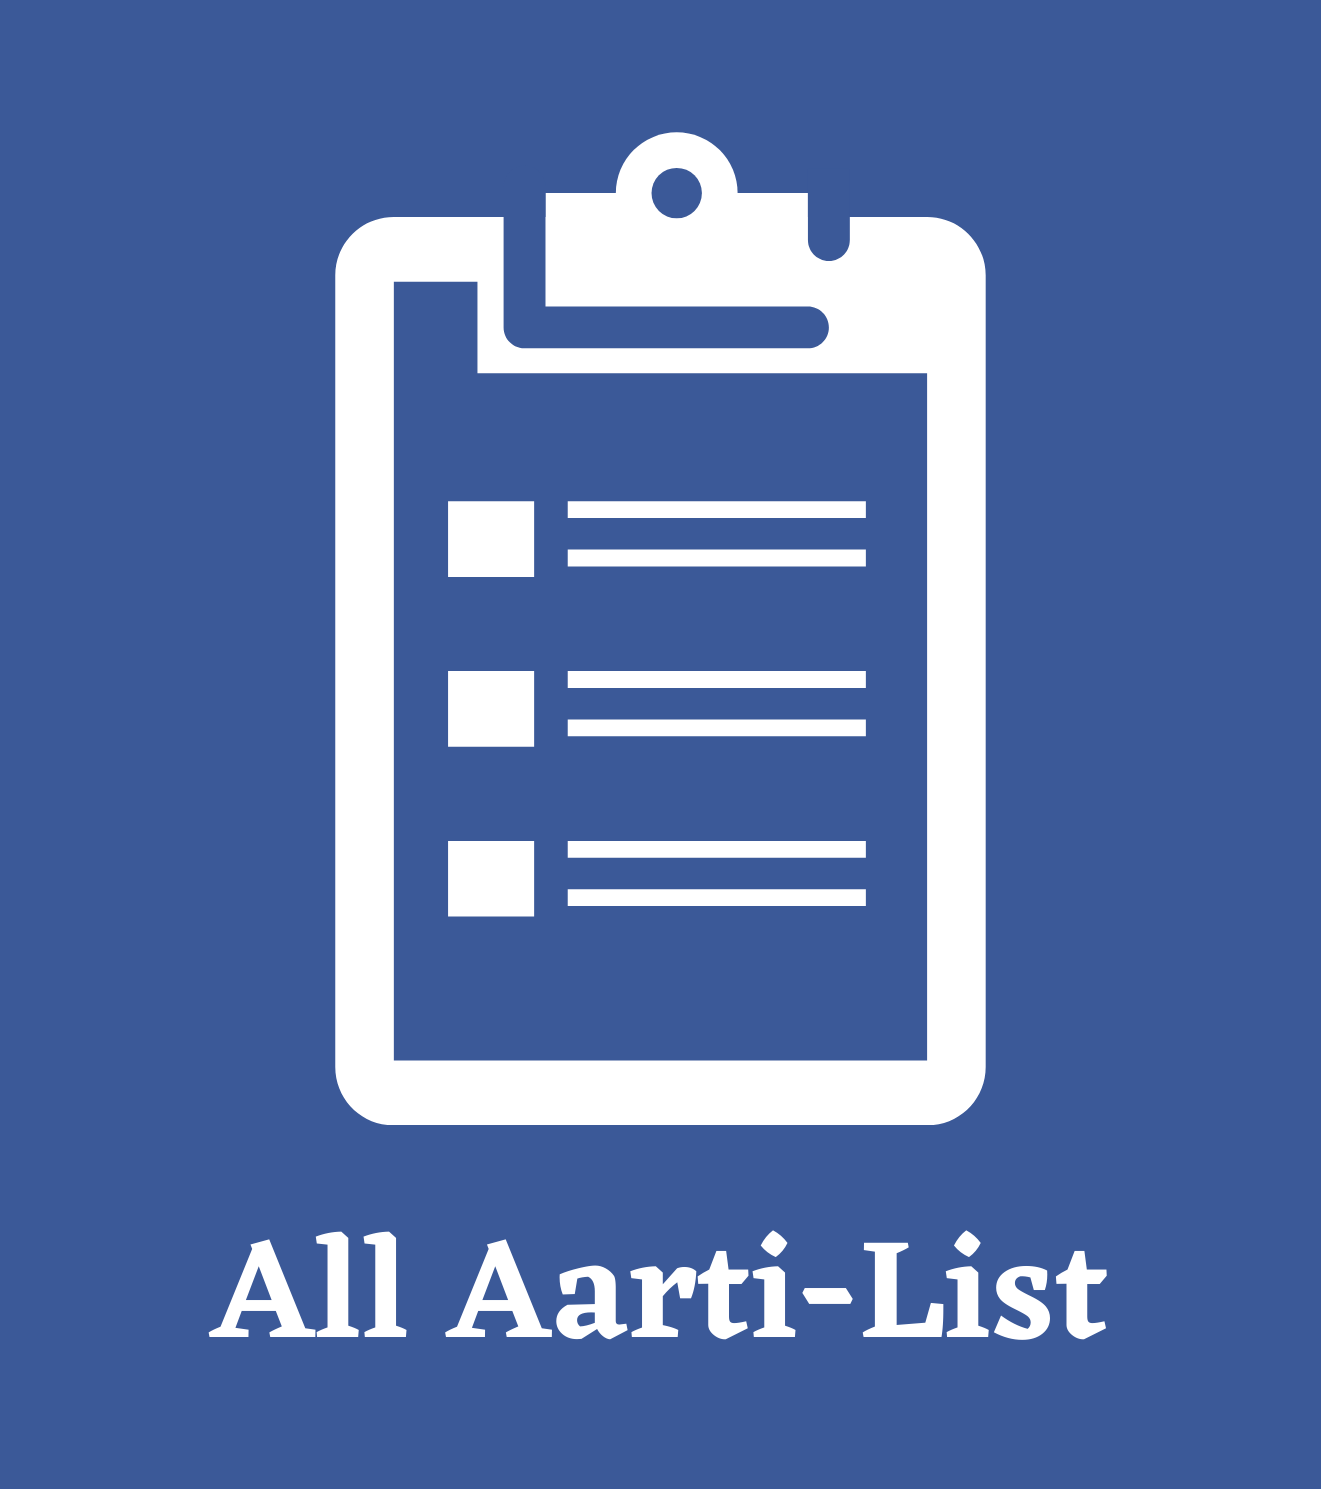
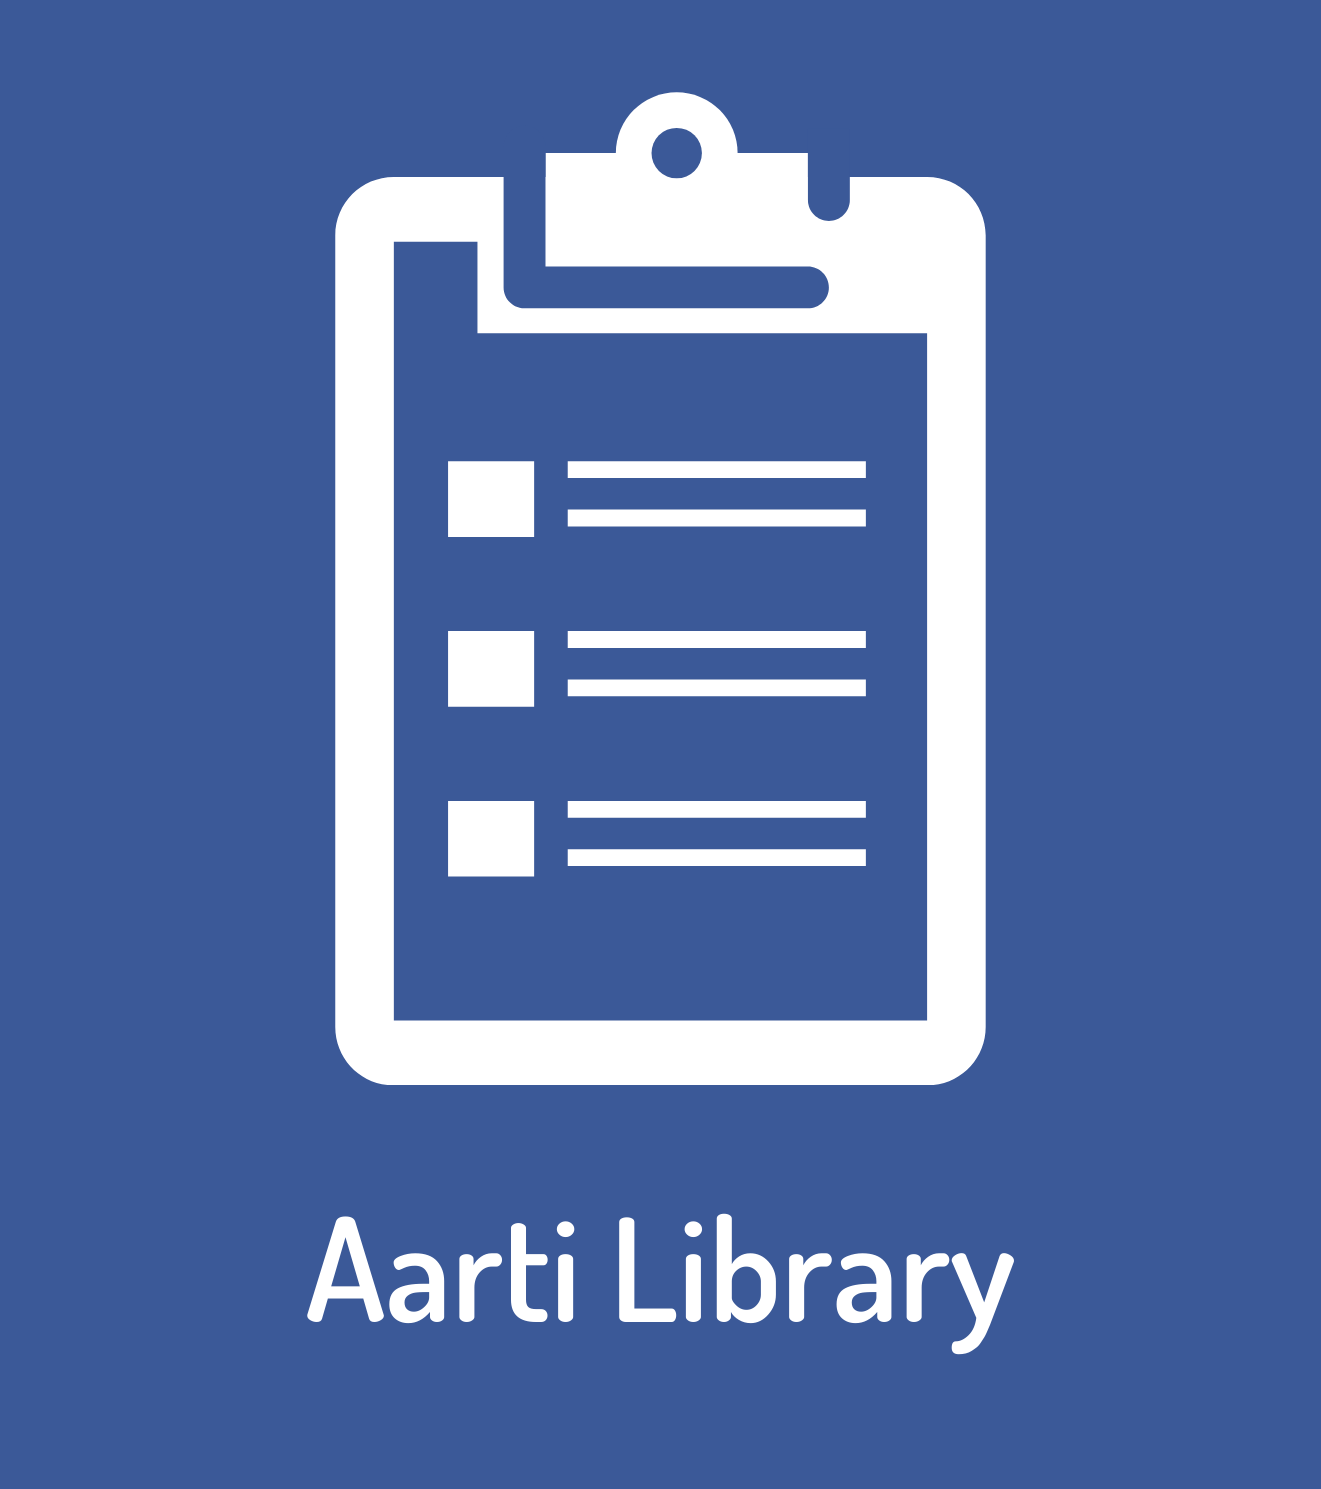
UI changes

diff --git a/src/app/app.component.ts b/src/app/app.component.ts
@@ -180,7 +180,7 @@ export class AppComponent implements OnInit {
       this.username = "Guest";
       this.appPages = [
         {
-          title: 'All Aarti List',
+          title: 'Aarti Library',
           url: 'aarti-list',
           icon: 'list'
 
@@ -207,7 +207,7 @@ export class AppComponent implements OnInit {
       this.username = name;
       this.appPages = [
         {
-          title: 'Homepage',
+          title: 'Home',
           url: 'aarti-list',
           icon: 'home'
         },
@@ -223,7 +223,7 @@ export class AppComponent implements OnInit {
       this.username = "Guest";
       this.appPages = [
         {
-          title: 'Homepage',
+          title: 'Home',
           url: 'aarti-list',
           icon: 'home'
         }
@@ -232,7 +232,7 @@ export class AppComponent implements OnInit {
       this.username = name;
       this.appPages = [
         {
-          title: 'Homepage',
+          title: 'Home',
           url: 'aarti-list',
           icon: 'home'
         },

diff --git a/src/app/pages/my-playlist/my-playlist.page.ts b/src/app/pages/my-playlist/my-playlist.page.ts
@@ -144,7 +144,7 @@ export class MyPlaylistPage implements OnInit {
     this.navCtrl.navigateForward('update-user-playlist');
   }
   copyData(item){
-    this.clipboard.copy(item.playlist_id);
+    this.clipboard.copy('m-Aarti :-\n'+'My Playlist Code : '+item.playlist_id+'\nPlease use the above code to search my playlist with name : '+item.playlist_name + '\n https://play.google.com/store/apps/details?id=com.sgn.maarti');
    }
 
   deletePlaylist(item) {
@@ -194,6 +194,8 @@ export class MyPlaylistPage implements OnInit {
         icon: 'share-social-outline',
         handler: () => {
           this.copyData(item)
+          this.dbService.showToast("Copied to Clipboard")
+         // alert("Copied to Clipboard");
           console.log('Share clicked');
         }
       }, {

diff --git a/src/app/pages/my-playlist/my-playlist.page.html b/src/app/pages/my-playlist/my-playlist.page.html
@@ -17,11 +17,11 @@
     </ion-col>
     <ion-col size="9"  (click)="stringCheck(item.playlist_id)">
       <ion-label>
-        <p><b> Code:</b>
-          <ion-note color="#3b5998">{{item.playlist_id}}</ion-note>
+        <p style="font-size: 18px;"><b> Code: </b>
+          <ion-note style="font-size: 18px;" color="#3b5998">{{item.playlist_id}}</ion-note>
         </p>
-        <p><b> Playlist Name:</b>
-          <ion-note color="#3b5998" class="ion-text-capitalize"> {{item.playlist_name}}</ion-note>
+        <p style="font-size: 18px;" ><b> Playlist Name: </b>
+          <ion-note style="font-size: 18px;" color="#3b5998" class="ion-text-capitalize"> {{item.playlist_name}}</ion-note>
         </p>
       </ion-label>
     </ion-col>

diff --git a/src/app/app.component.html b/src/app/app.component.html
@@ -5,7 +5,7 @@
       <div class="header-content">
         <!-- <img src="../assets/images/person-icon-blue.png"> -->
         <ion-label>
-          <h2>Welcome</h2>
+          <h2>Hello</h2>
           <p class="ion-text-capitalize">{{username}}</p>
         </ion-label>
         <!-- <button click="netCheck()">net</button> -->

diff --git a/src/app/app.component.scss b/src/app/app.component.scss
@@ -24,12 +24,12 @@
     border-radius: 50%;
     border: 7px solid #3b5998;  
   }
-  h2{
+  p{
     font-weight: 700;
     font-size: xx-large;
     color: #fff;
   }
-  p{
+  h2{
     font-size: 3vh;
     color: #e4e4e4;
     font-weight: 100;
